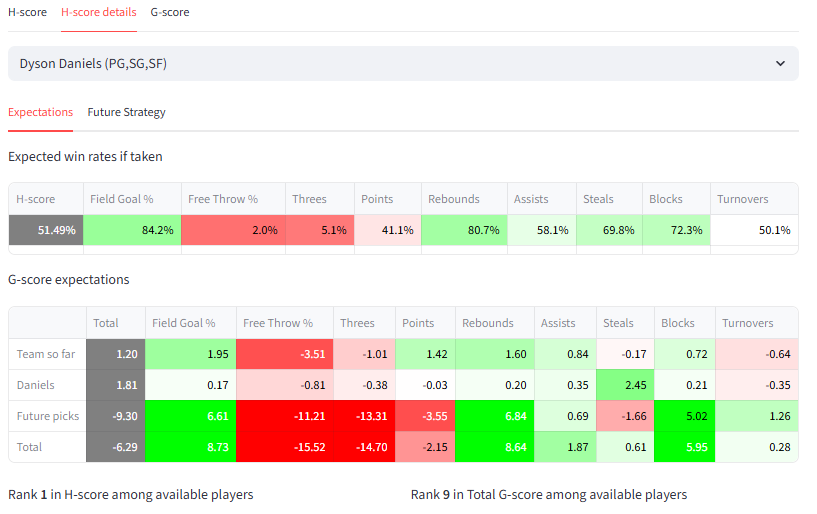
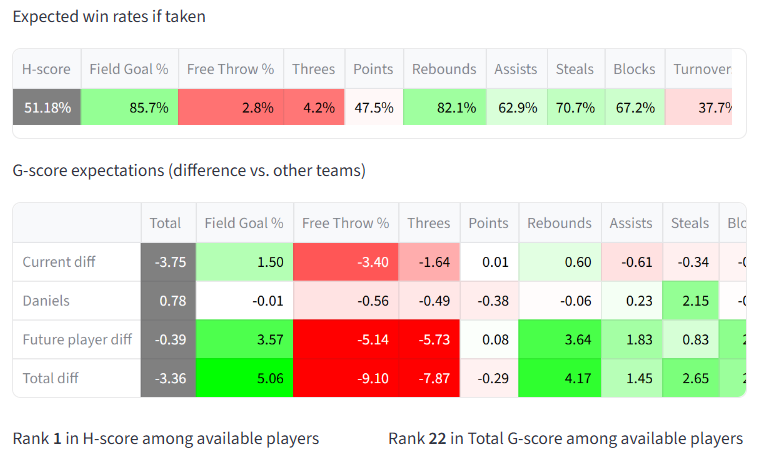
again fixed the g-score expectations table

diff --git a/src/tabs/candidate_subtabs.py b/src/tabs/candidate_subtabs.py
@@ -408,7 +408,7 @@ def make_detailed_view(player_assignments : dict[list[str]]
                                             ,score_df.index
                                             ,index = 0
                                             ,label_visibility = 'collapsed'
-                                            ,key = 'candidate_player')
+                                            ,key = 'candidate_player' + str(iteration))
         
         player_last_name = player_name.split(' ')[1]
 
@@ -476,7 +476,7 @@ def make_detailed_view(player_assignments : dict[list[str]]
 
       if (len([x for x in my_players if x == x]) < st.session_state.n_picks - 1):
 
-        st.markdown('G-score expectations')
+        st.markdown('G-score expectations (difference vs. other teams)')
         st.dataframe(main_df_styled)
 
       if cash_remaining_per_team:
@@ -598,7 +598,7 @@ def get_positions_styled(n_per_position : dict
                                     for p in get_position_structure()['flex_list'] if p in n_per_position.keys()}
                                     ).T.fillna(0)
   
-  position_share_df = position_share_df[get_position_structure()['base_list']]
+  position_share_df = position_share_df[[p for p in get_position_structure()['base_list'] if p in position_share_df.index]]
   position_share_df.loc['Total',:] = position_share_df.sum()
 
   return position_share_df.style.format("{:.2f}").background_gradient(axis = None)
@@ -710,13 +710,17 @@ def make_main_df_styled(_g_scores : pd.DataFrame
       None
   """
 
-  total_diff = res['Diff'].loc[player_name] * _H.original_v
+  player = _g_scores.loc[player_name].drop('Total')
+  total_diff = res['Diff'].loc[player_name] * _H.original_v 
   future_diff = res['Future-Diff'].loc[player_name] * _H.original_v
   current_diff = total_diff - future_diff
 
+  total_diff_plus_player = total_diff + player
+
   main_res_dict = {'Current diff' : current_diff
+                ,player_last_name : player
                 ,'Future player diff' : future_diff
-                ,'Total diff' : total_diff}
+                ,'Total diff' : total_diff_plus_player}
   
   main_df = pd.DataFrame(main_res_dict).T
   main_df.loc[:,'Total'] = main_df.sum(axis = 1)

diff --git a/src/platform_integration/yahoo_integration.py b/src/platform_integration/yahoo_integration.py
@@ -535,11 +535,7 @@ class YahooIntegration(PlatformIntegration):
 
         _self.n_drafters = n_drafters #ZR: hack, this is bad 
 
-        #return None, 'Draft has not started yet'
-
         teams_dict = _self.get_teams_dict(_self.league_id)
-
-        #return None, 'Draft has not started yet'
 
         all_team_ids = [draft_obj.team_key.split('.')[-1] for draft_obj in draft_results[0:n_drafters]]
 
@@ -573,10 +569,9 @@ class YahooIntegration(PlatformIntegration):
         #    return None, True
 
         #return None, 'Draft has not started yet'
-    
         player_codes = draft_result_raw_df['Player'].str.split('.').str[-1].astype(int).values
         draft_result_raw_df['Player'] = ['RP' if x not in mapper_table.index else mapper_table.loc[x].values[0] for x in player_codes]
-        
+
         #return None, 'Draft has not started yet'
 
         draft_result_raw_df['PlayerMod'] = [get_fixed_player_name(x) for x in draft_result_raw_df['Player'].astype(str)]

diff --git a/src/math/algorithm_agents.py b/src/math/algorithm_agents.py
@@ -673,7 +673,7 @@ class HAgent():
             cdf_means = cdf_estimates.mean(axis = 2)
 
             if expected_future_diff is not None:
-                expected_diff_means = (expected_future_diff.mean(axis = 2) + diff_means.mean(axis = 2)) / (self.original_v.reshape(1,-1))
+                expected_diff_means = (expected_future_diff.mean(axis = 2) + diff_means.mean(axis = 2))
             else:
                 expected_diff_means = None
 

diff --git a/docs/settings.md b/docs/settings.md
@@ -52,9 +52,27 @@ If draft data is being input manually, the number of drafters, the number of pic
 
 ## Player statistics 
 
-Player statistics are an input to the algorithms implemented by the website. They can be sourced either from old seasons or forward-looking projections.
+Player statistics are an input to the algorithms implemented by the website. They can be sourced either from forward-looking projections or previous NBA seasons.
+
+### Projection
+
+The default for player statistics is to use forward-looking projections. 
+
+![](img/projections.png)
+
+The default projection source is a 50/50 split between ESPN's free forecasts and a modified version of DARKO. The website's version of DARKO projections takes games played and total minutes from the ESPN forecasts, and combines those with DARKO pace and per-possession projections to get per-game projections. This is necessary because DARKO does not forecast games played, and its minute forecasts are designed for the next game only, which is not ideal for fantasy. 
+
+Two additional kinds of forecasts are also available: those created by Hashtag Basketball, and Basketball Monster (BBM). Both of these projections are paid products, so they cannot be provided through the website. Instead, they must be purchased and uploaded. For HTB, there is no native download option for projections. The projections must be copy pasted into an Excel file and saved as a CSV. For BBM, there is a download option, but only the XLSX download option works. Download it, copy out the projections into Excel, and save them as a CSV UTF-8. Either kind of projection can be manually edited to change projections if desired. 
+
+Also: be careful to download projections for all players instead of just the top players. During a draft, another drafter may take a player outside of the limited projection list, and the website will only have projections for them if they have been provided. 
+
+Projections are combined between different sources by taking weighted means according to the provided weights. If the assigned weights add up to more or less than 1, they will be scaled to add to 1. 
+
+When using projections, specific players can be ignored by manually adding them to the list on the right. This can be used to remove players who have long-term injuries and are not relevant to fantasy but are still included in projections. 
 
 ### Historical 
+
+Historical data is available for manual entry drafts. 
 
 ![alt text](img/historical.png)
 
@@ -67,22 +85,6 @@ H-scores for the 1984-85 season, Each Category. NP means no position
 
 Historical data cannot be used when integrated with a fantasy platform, because platforms do not run leagues based on past seasons.  
 
-### Projection
-
-The other option is to use a projection for future performance. 
-
-![alt text](img/projections.png)
-
-As of now, two kinds of projections are supported: those created by Hashtag Basketball, and Basketball Monster. Both of these projections are paid products, so they cannot be provided through the website. Instead, they must be purchased and uploaded. They can both be uploaded and then mixed according to the chosen weights, if desired. If the assigned weights add up to more or less than 1, they will be scaled to add to 1. This setup is future-proofing for additional projection sources in the future.
-
-For HTB, there is no native download option for projections. The projections must be copy pasted into an Excel file and saved as a CSV.
-
-For BBM, there is a download option, but only the XLSX download option works. Download it, copy out the projections into Excel, and save them as a CSV UTF-8.
-
-Either kind of projection can be manually edited to change projections if desired. 
-
-Also: be careful to download projections for all players instead of just the top players. During a draft, another drafter may take a player outside of the limited projection list, and the website will only have projections for them if they have been provided. 
-
 ## Formats & categories
 
 ![alt text](img/formats.png)
@@ -93,4 +95,4 @@ It also supports any combination of categories, across the default nine categori
 
 ![alt text](img/categories.png)
 
-For the alternative categories, when using projections, make sure to include them when sourcing the projections. 
+For the alternative categories, when using projections, make sure to include them when sourcing the projections. ESPN and DARKO do not forecast them so all of the weight will be from Hashtag or BBM projections. 

diff --git a/docs/hscores.md b/docs/hscores.md
@@ -78,11 +78,11 @@ The main H-score table gives only indirect insight into the strategies that H-sc
 Expectations for a team with Giannis as the first pick based on Dyson Daniels as the second, Each Category 2024-25
 ///
 
-The first row is the same as that from the main H-scoring table, included for convenience. The second breaks down the team into components, in terms of G-scores. The future pick totals are large in the case above because there are still many picks to be made. 
+The first row is the same as that from the main H-scoring table, included for convenience. 
 
-The ranks show how the candidate player ranks as a pick in this situation, both by H-score and G-score. This can also be seen through the H-score or G-score main tables, and is also included here as a convenience. 
+The table below breaks down the components of the team, in terms of G-scores vs. the average of other teams. 'Current diff' represents the G-score differential for the draft so far, including players already drafted in the current round and excluding the candidate player. Teams that have not made their pick for the round are filled in with an estimate of the statistics of their next player. So in this case above, 'Current diff' represents other teams' first two picks vs. Giannis, with estimates for other teams that have only drafted one player. 'Future player diff' is the expected difference between future picks made by the drafter and those made by other teams, based on the strategy adopted by H-scoring. In this case the G-score for Free Throws is heavily negative because the algorithm wants to punt it with future picks. 'Current diff' plus the candidate player plus 'Future player diff' equals the total differential versus other teams, which H-scoring uses to calculate win probabilities.  
 
-One might note that the G-score expectations do not always align perfectly with the expected win rates. This happens because the H-scoring algorithm is implicitly trying to update its expectations for other teams based on players that have been taken or will soon be taken. Other teams may end up being stronger or weaker than '0', potentially leading to cases where a positive G-score is expected to have a below 50% win rate or vice versa. 
+The ranks show how the candidate player ranks as a pick in this situation, both by H-score and G-score. This can also be seen through the H-score or G-score main tables, and is included here as a convenience. 
 
 ### Future strategy
 
